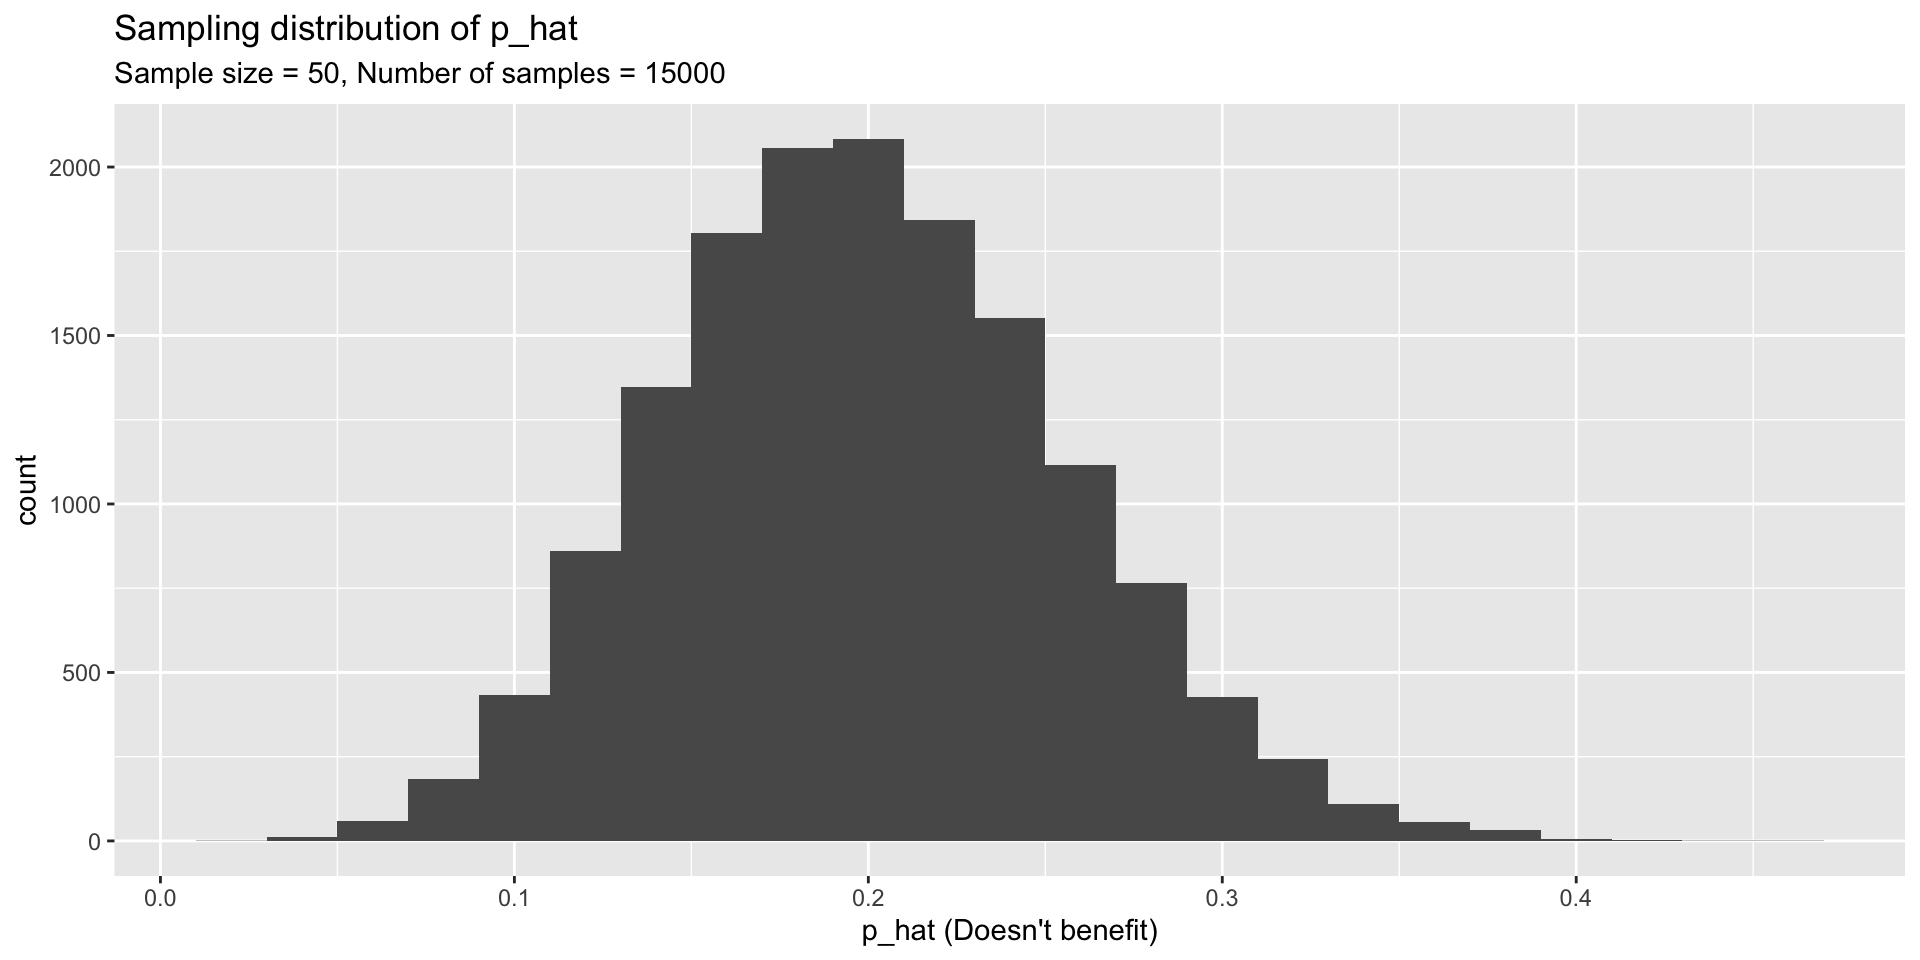
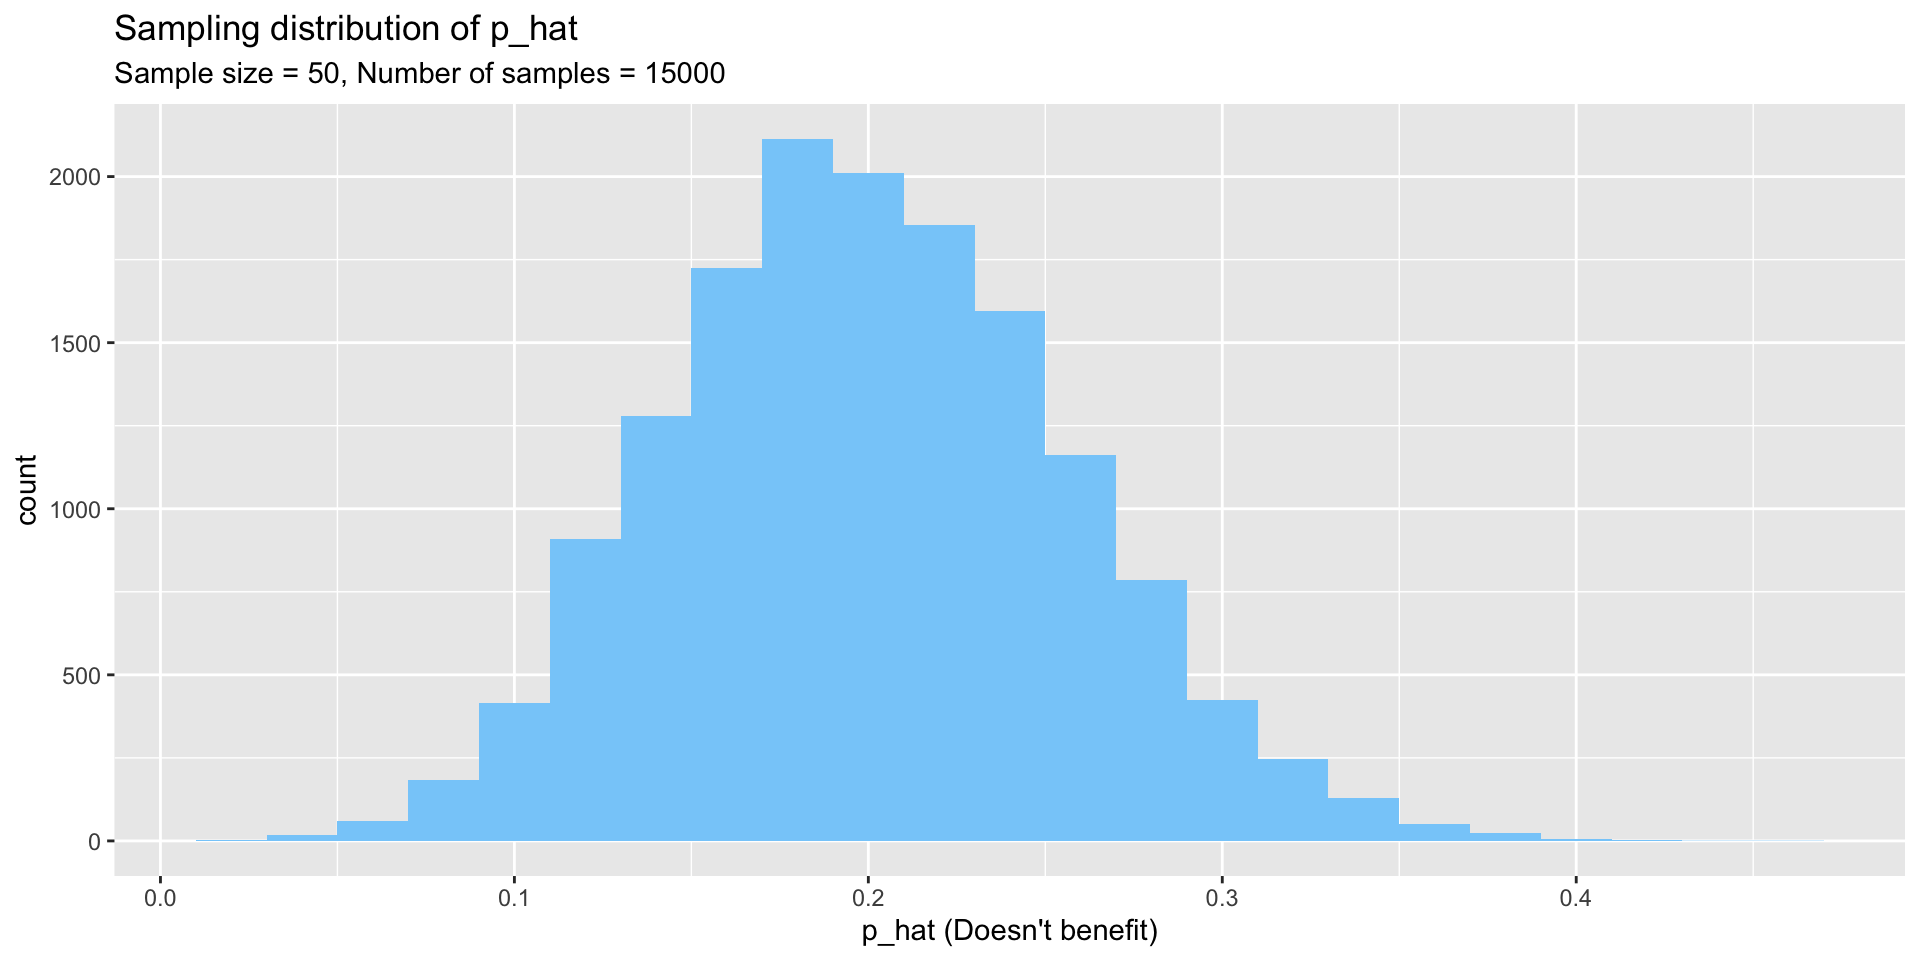
fixed errors in 06inference in i306

Changed region(s): [[0.0312, 0.125, 0.9688, 0.875], [0.0312, 0.6875, 0.0625, 0.7188], [0.0312, 0.3438, 0.0625, 0.375]]

diff --git a/stats/06inference/index.html b/stats/06inference/index.html
@@ -461,7 +461,7 @@ Mick McQuaid
 </section>
 <section id="point-estimates" class="slide level2 center">
 <h2>Point estimates</h2>
-<p>Example: Biden’t approval rating is 38% (Reuters, 2024-01-31). This is a point estimate.</p>
+<p>Example: Biden’s approval rating is 38% (Reuters, 2024-01-31). This is a point estimate.</p>
 <p>How good is this point estimate? Two factors are sampling error and bias.</p>
 <ul>
 <li>Who’s in the sample?</li>
@@ -491,10 +491,10 @@ Mick McQuaid
 <span id="cb3-8"><a href=""></a><span class="co"># the sample size.</span></span>
 <span id="cb3-9"><a href=""></a>(phat <span class="ot">&lt;-</span> <span class="fu">sum</span>(sampledEntries <span class="sc">==</span> <span class="st">"support"</span>) <span class="sc">/</span> <span class="dv">1000</span>)</span></code><button title="Copy to Clipboard" class="code-copy-button"><i class="bi"></i></button></pre></div>
 <div class="cell-output cell-output-stdout">
-<pre><code>[1] 0.876</code></pre>
+<pre><code>[1] 0.888</code></pre>
 </div>
 </div>
-<p>This estimate, 0.876, differs every time we sample. Let’s look at a different sample from the textbook’s lab website.</p>
+<p>This estimate, 0.888, differs every time we sample. Let’s look at a different sample from the textbook’s lab website.</p>
 </section>
 <section id="global-monitor" class="slide level2 center">
 <h2>Global Monitor</h2>
@@ -515,7 +515,7 @@ Mick McQuaid
 <div class="cell">
 <div class="sourceCode cell-code" id="cb6"><pre class="sourceCode numberSource r number-lines code-with-copy"><code class="sourceCode r"><span id="cb6-1"><a href=""></a>global_monitor <span class="sc">|&gt;</span></span>
 <span id="cb6-2"><a href=""></a><span class="fu">ggplot</span>(<span class="fu">aes</span>(scientist_work)) <span class="sc">+</span></span>
-<span id="cb6-3"><a href=""></a>  <span class="fu">geom_bar</span>() <span class="sc">+</span></span>
+<span id="cb6-3"><a href=""></a>  <span class="fu">geom_bar</span>(<span class="at">fill=</span><span class="st">"#87CEFA"</span>) <span class="sc">+</span></span>
 <span id="cb6-4"><a href=""></a>  <span class="fu">labs</span>(</span>
 <span id="cb6-5"><a href=""></a>    <span class="at">x =</span> <span class="st">""</span>, <span class="at">y =</span> <span class="st">""</span>,</span>
 <span id="cb6-6"><a href=""></a>    <span class="at">title =</span> <span class="st">"Do you believe that the work scientists do benefit people like you?"</span></span>
@@ -556,8 +556,8 @@ Mick McQuaid
 <pre><code># A tibble: 2 × 3
   scientist_work      n p_hat
   &lt;chr&gt;           &lt;int&gt; &lt;dbl&gt;
-1 Benefits           36  0.72
-2 Doesn't benefit    14  0.28</code></pre>
+1 Benefits           42  0.84
+2 Doesn't benefit     8  0.16</code></pre>
 </div>
 </div>
 </section>
@@ -576,7 +576,7 @@ Mick McQuaid
 <div class="cell">
 <div class="sourceCode cell-code" id="cb13"><pre class="sourceCode numberSource r number-lines code-with-copy"><code class="sourceCode r"><span id="cb13-1"><a href=""></a>sample_props50 <span class="sc">|&gt;</span></span>
 <span id="cb13-2"><a href=""></a><span class="fu">ggplot</span>(<span class="fu">aes</span>(p_hat)) <span class="sc">+</span></span>
-<span id="cb13-3"><a href=""></a>  <span class="fu">geom_histogram</span>(<span class="at">binwidth =</span> <span class="fl">0.02</span>) <span class="sc">+</span></span>
+<span id="cb13-3"><a href=""></a>  <span class="fu">geom_histogram</span>(<span class="at">binwidth =</span> <span class="fl">0.02</span>,<span class="at">fill=</span><span class="st">"#87CEFA"</span>) <span class="sc">+</span></span>
 <span id="cb13-4"><a href=""></a>  <span class="fu">labs</span>(</span>
 <span id="cb13-5"><a href=""></a>    <span class="at">x =</span> <span class="st">"p_hat (Doesn't benefit)"</span>,</span>
 <span id="cb13-6"><a href=""></a>    <span class="at">title =</span> <span class="st">"Sampling distribution of p_hat"</span>,</span>
@@ -659,11 +659,11 @@ Mick McQuaid
 <h2>Example of a 95 percent confidence interval</h2>
 <p>For the solar power example given in the textbook,</p>
 <p><span class="math display">\[\hat{p}\pm 1.96 \times SE_{\hat{p}} \rightarrow 0.887 \pm 1.96 \times 0.010 \rightarrow (0.8674,0.9066)\]</span></p>
-<p>which is expressed in words as <em>We are 95 percent confident that the actual proportion of American adults who support expanding solar power is between 86.7 percent and 90.7 percent</em>. It is also common to say instead that <em>88 percent of Americans support expanding solar power (with a margin of error of 1.96 percent)</em>.</p>
+<p>which is expressed in words as <em>We are 95 percent confident that the actual proportion of American adults who support expanding solar power is between 86.7 percent and 90.7 percent</em>. It is also common to say instead that <em>89 percent of Americans support expanding solar power (with a margin of error of 1.96 percent)</em>.</p>
 </section>
 <section id="other-confidence-intervals" class="slide level2 center">
 <h2>Other confidence intervals</h2>
-<p>We could substitute 2.58 for 1.96 to obtain a 99 percent confidence interval. For a 90 percent confidence interval, substitute 1.645.</p>
+<p>We could substitute 2.576 for 1.96 to obtain a 99 percent confidence interval. For a 90 percent confidence interval, substitute 1.645.</p>
 </section>
 <section id="plausibility-vs-possibility" class="slide level2 center">
 <h2>Plausibility vs possibility</h2>
@@ -680,7 +680,7 @@ Mick McQuaid
 </section>
 <section id="the-null-and-alternative-hypothesis" class="slide level2 center">
 <h2>The null and alternative hypothesis</h2>
-<p>The null hypothesis ordinarily represents the status quo or some skeptical belief about a new outcome, while the alternative hypothesis ordinarily represents an optimistic belief about the outcome under study, such as the effect of a new drug, where the null hypothesis would say that the drug has no effect and the alternative hypothesis is that it cures condition <span class="math inline">\(x\)</span>.</p>
+<p>The null hypothesis ordinarily represents the status quo or some skeptical belief about a new outcome, while the alternative hypothesis ordinarily represents an optimistic belief about the outcome under study, such as the effect of a new drug, where the null hypothesis would say that the drug has no effect and the alternative hypothesis is that it cures condition <span class="math inline">\(xyz\)</span>.</p>
 <p>Why would we phrase them this way? It is because we want to partition the risk of failure. To do that, we need the concepts of Type I and Type II error.</p>
 </section></section>
 <section>
@@ -863,7 +863,7 @@ Mick McQuaid
 </section>
 <section id="pictures-of-the-alpha-levels" class="slide level2 center">
 <h2>Pictures of the alpha levels</h2>
-<p>The following three pictures show these three cases. The first version, <em>life-or-death</em>, has the smallest rejection region. Suppose the test is whether a radical cancer treatment gives longer life than a traditional cancer treatment. Let’s say that the traditional treatment gives an average of 15 months longer life. The null hypothesis is that the new treatment also gives 15 months longer life. The alternative hypothesis is that the radical treatment gives 22 months more life on average based on on only five patients who received the new treatment. A patient can only do one treatment or the other. The status quo would be to take the traditional treatment unless there is strong evidence that the radical treatment provides an average longer life.</p>
+<p>The following pictures show these three cases. The first version, <em>life-or-death</em>, has the smallest rejection region. Suppose the test is whether a radical cancer treatment gives longer life than a traditional cancer treatment. Let’s say that the traditional treatment gives an average of 15 months longer life. The null hypothesis is that the new treatment also gives 15 months longer life. The alternative hypothesis is that the radical treatment gives 22 months more life on average based on on only five patients who received the new treatment. A patient can only do one treatment or the other. The status quo would be to take the traditional treatment unless there is strong evidence that the radical treatment provides an average longer life.</p>
 </section>
 <section id="minimizing-the-chance-of-mistake" class="slide level2 center">
 <h2>Minimizing the chance of mistake</h2>
@@ -915,7 +915,7 @@ t=\frac{\overline{y}-\mu_0}{s/\sqrt{n}}
 <section id="practice-estimating-a-population-mean" class="slide level2 center">
 <h2>practice estimating a population mean</h2>
 <p>Consider an outlet store that purchased used display panels to refurbish and resell. The relevant statistics for failure time of the sample are <span class="math inline">\(n=50, \overline{y}=1.9350, s=0.92865\)</span>.</p>
-<p>But these are the only necessary numbers to solve the problem. The standard error, .1313 can be calculated from <span class="math inline">\(s/\sqrt{n} = 0.92865/\sqrt{50}=.1313.\)</span></p>
+<p>But these are the only necessary numbers to solve the problem. The standard error, .1313, can be calculated from <span class="math inline">\(s/\sqrt{n} = 0.92865/\sqrt{50}=.1313.\)</span></p>
 </section>
 <section id="section-3" class="slide level2 center">
 <h2></h2>
@@ -950,7 +950,7 @@ t=\frac{\overline{y}-\mu_0}{s/\sqrt{n}}
 <p>Imprisoning an innocent person is like a Type I error: we rejected the null hypothesis when it was true. Letting a guilty person go free is like a Type II error: we failed to reject the null hypothesis when it was false.</p>
 </section>
 <section id="identify-rejection-region-marker" class="slide level2 center">
-<h2>identify rejection region marker</h2>
+<h2>Identify rejection region marker</h2>
 <p>How do you identify rejection region markers? A rejection region marker is the value of a test statistic that leads to rejection of the null hypothesis. It marks the edge of a region under the curve corresponding to the level of significance, <span class="math inline">\(\alpha\)</span>. The marker is not a measure of the size of the region. The rejection region marker can vary from <span class="math inline">\(-\infty\)</span> to <span class="math inline">\(+\infty\)</span> while the size of the region is somewhere between zero and one.</p>
 </section>
 <section id="section-7" class="slide level2 center">
@@ -1028,12 +1028,12 @@ t=\frac{\overline{y}-\mu_0}{s/\sqrt{n}}
 
 <img data-src="index_files/figure-revealjs/unnamed-chunk-11-1.png" width="960" class="r-stretch"></section>
 <section id="test-a-hypothesis-about-a-sample-mean" class="slide level2 center">
-<h2>test a hypothesis about a sample mean</h2>
+<h2>Test a hypothesis about a sample mean</h2>
 <p>The test statistic is <span class="math inline">\(t_c\)</span>, where the <span class="math inline">\(c\)</span> subscript stands for <em>calculated</em>. Most people just call it <span class="math inline">\(t\)</span>. In my mind, that leads to occasional confusion about whether it is a value calculated from a sample. We’ll compare the test statistic to <span class="math inline">\(t_{\alpha,\nu}\)</span>, the value of the statistic at a given level of significance, identified using a table or calculator.</p>
 </section>
 <section id="section-15" class="slide level2 center">
 <h2></h2>
-<p>The test leads to two situations. The first, pictured below, is the situation where we fail to reject the null hypothesis and conclude that we have not seen evidence in the sample that the point estimate differs from what the modest hypothesis claims it is. Often, this is an estimate of a mean, where the population mean, <span class="math inline">\(\mu_0\)</span>, is being estimated by a sample mean, <span class="math inline">\(\bar{y}\)</span>. The following picture doesn’t show <span class="math inline">\(\bar{y}\)</span>, just the tail. <span class="math inline">\(\bar{y}\)</span> would be at the top of the hump, not shown here.</p>
+<p>The test leads to two situations. The first, pictured next, is the situation where we fail to reject the null hypothesis and conclude that we have not seen evidence in the sample that the point estimate differs from what the modest hypothesis claims it is. Often, this is an estimate of a mean, where the population mean, <span class="math inline">\(\mu_0\)</span>, is being estimated by a sample mean, <span class="math inline">\(\bar{y}\)</span>. The following picture doesn’t show <span class="math inline">\(\bar{y}\)</span>, just the tail. <span class="math inline">\(\bar{y}\)</span> would be at the top of the hump, not shown here.</p>
 </section>
 <section id="section-16" class="slide level2 center">
 <h2></h2>
@@ -1041,7 +1041,7 @@ t=\frac{\overline{y}-\mu_0}{s/\sqrt{n}}
 <img data-src="index_files/figure-revealjs/unnamed-chunk-12-1.png" width="960" class="r-stretch"></section>
 <section id="section-17" class="slide level2 center">
 <h2></h2>
-<p>The above possibility shows the situation where <span class="math inline">\(t_{\alpha,\nu}&gt;t_c\)</span>, which is equivalent to saying that <span class="math inline">\(p&gt;\alpha\)</span>.</p>
+<p>The preceding possibility shows the situation where <span class="math inline">\(t_{\alpha,\nu}&gt;t_c\)</span>, which is equivalent to saying that <span class="math inline">\(p&gt;\alpha\)</span>.</p>
 <p>The <span class="math inline">\(x\)</span>-axis scale begins to the left of the fragment shown here, and values of <span class="math inline">\(t\)</span> increase from left to right. At the same time, the shaded regions decrease in size from left to right. Note that the entire shaded region above is <span class="math inline">\(p\)</span>, while only the darker region at the right is <span class="math inline">\(\alpha\)</span>.</p>
 <p>The situation pictured next is the reverse. In this situation, we reject the null hypothesis and conclude instead that the point estimate does not equal the value in the modest hypothesis. In this case <span class="math inline">\(t_{\alpha,\nu}&lt;t_c\)</span>, which is equivalent to saying that <span class="math inline">\(p&lt;\alpha\)</span>.</p>
 </section>
@@ -1084,12 +1084,12 @@ t=\frac{\overline{y}-\mu_0}{s/\sqrt{n}}
 <section id="section-23" class="slide level2 center">
 <h2></h2>
 <p>At the end of step 2, we have determined the alternative hypothesis to be</p>
-<p><span class="math inline">\(H_a: \mu&gt;\mu_0\)</span> with <span class="math inline">\(\mu_0=15\)</span>.</p>
+<p><span class="math inline">\(H_A: \mu&gt;\mu_0\)</span> with <span class="math inline">\(\mu_0=15\)</span>.</p>
 </section>
 <section id="step-3.-choose-the-test-statistic." class="slide level2 center">
 <h2>Step 3. Choose the test statistic.</h2>
 <p>Previously, we have learned two test statistics, <span class="math inline">\(z\)</span> and <span class="math inline">\(t\)</span>. We have learned that the choice between them is predicated on sample size. If <span class="math inline">\(n\geqslant30\)</span>, use <span class="math inline">\(z\)</span>, otherwise use <span class="math inline">\(t\)</span>. Here <span class="math inline">\(n=5\)</span> so use <span class="math inline">\(t\)</span>. We can calculate the <span class="math inline">\(t\)</span>-statistic, which I called <span class="math inline">\(t_c\)</span> for <em>calculated</em> above, for the sample using the formula <span class="math display">\[
-t=\frac{\overline{y}-\mu_0}{s/\sqrt{n}}
+t_c=\frac{\overline{y}-\mu_0}{s/\sqrt{n}}
 \]</span></p>
 </section>
 <section id="section-24" class="slide level2 center">
@@ -1137,23 +1137,29 @@ n(\overline{y})^2}{n-1}}=2\]</span></p>
 <section id="section-29" class="slide level2 center">
 <h2></h2>
 <p>In this case <span class="math inline">\(p=P(t_{\alpha,\nu}&gt;t_c)=0.0007195\)</span>.</p>
+<div class="cell">
+<div class="sourceCode cell-code" id="cb16"><pre class="sourceCode numberSource r number-lines code-with-copy"><code class="sourceCode r"><span id="cb16-1"><a href=""></a><span class="fu">pt</span>(<span class="fl">7.8262</span>,<span class="dv">4</span>,<span class="at">lower.tail=</span><span class="cn">FALSE</span>)</span></code><button title="Copy to Clipboard" class="code-copy-button"><i class="bi"></i></button></pre></div>
+<div class="cell-output cell-output-stdout">
+<pre><code>[1] 0.000719558</code></pre>
+</div>
+</div>
 <p>We can identify both <span class="math inline">\(t_\alpha\)</span> and <span class="math inline">\(t_c\)</span> using R as follows.</p>
 </section>
 <section id="section-30" class="slide level2 center">
 <h2></h2>
 <div class="cell">
-<div class="sourceCode cell-code" id="cb16"><pre class="sourceCode numberSource r number-lines code-with-copy"><code class="sourceCode r"><span id="cb16-1"><a href=""></a><span class="co">#. t sub alpha</span></span>
-<span id="cb16-2"><a href=""></a><span class="fu">qt</span>(<span class="fl">0.95</span>,<span class="dv">4</span>)</span></code><button title="Copy to Clipboard" class="code-copy-button"><i class="bi"></i></button></pre></div>
+<div class="sourceCode cell-code" id="cb18"><pre class="sourceCode numberSource r number-lines code-with-copy"><code class="sourceCode r"><span id="cb18-1"><a href=""></a><span class="co">#. t sub alpha</span></span>
+<span id="cb18-2"><a href=""></a><span class="fu">qt</span>(<span class="fl">0.95</span>,<span class="dv">4</span>)</span></code><button title="Copy to Clipboard" class="code-copy-button"><i class="bi"></i></button></pre></div>
 <div class="cell-output cell-output-stdout">
 <pre><code>[1] 2.131847</code></pre>
 </div>
-<div class="sourceCode cell-code" id="cb18"><pre class="sourceCode numberSource r number-lines code-with-copy"><code class="sourceCode r"><span id="cb18-1"><a href=""></a><span class="co">#. find the alpha region associated with t sub alpha</span></span>
-<span id="cb18-2"><a href=""></a><span class="dv">1</span><span class="sc">-</span><span class="fu">pt</span>(<span class="fl">2.131847</span>,<span class="dv">4</span>)</span></code><button title="Copy to Clipboard" class="code-copy-button"><i class="bi"></i></button></pre></div>
+<div class="sourceCode cell-code" id="cb20"><pre class="sourceCode numberSource r number-lines code-with-copy"><code class="sourceCode r"><span id="cb20-1"><a href=""></a><span class="co">#. find the alpha region associated with t sub alpha</span></span>
+<span id="cb20-2"><a href=""></a><span class="dv">1</span><span class="sc">-</span><span class="fu">pt</span>(<span class="fl">2.131847</span>,<span class="dv">4</span>)</span></code><button title="Copy to Clipboard" class="code-copy-button"><i class="bi"></i></button></pre></div>
 <div class="cell-output cell-output-stdout">
 <pre><code>[1] 0.04999999</code></pre>
 </div>
-<div class="sourceCode cell-code" id="cb20"><pre class="sourceCode numberSource r number-lines code-with-copy"><code class="sourceCode r"><span id="cb20-1"><a href=""></a>x <span class="ot">&lt;-</span> <span class="fu">c</span>(<span class="dv">25</span>,<span class="dv">23</span>,<span class="dv">21</span>,<span class="dv">21</span>,<span class="dv">20</span>)</span>
-<span id="cb20-2"><a href=""></a><span class="fu">t.test</span>(x,<span class="at">alternative=</span><span class="st">"greater"</span>,<span class="at">mu=</span><span class="dv">15</span>)</span></code><button title="Copy to Clipboard" class="code-copy-button"><i class="bi"></i></button></pre></div>
+<div class="sourceCode cell-code" id="cb22"><pre class="sourceCode numberSource r number-lines code-with-copy"><code class="sourceCode r"><span id="cb22-1"><a href=""></a>x <span class="ot">&lt;-</span> <span class="fu">c</span>(<span class="dv">25</span>,<span class="dv">23</span>,<span class="dv">21</span>,<span class="dv">21</span>,<span class="dv">20</span>)</span>
+<span id="cb22-2"><a href=""></a><span class="fu">t.test</span>(x,<span class="at">alternative=</span><span class="st">"greater"</span>,<span class="at">mu=</span><span class="dv">15</span>)</span></code><button title="Copy to Clipboard" class="code-copy-button"><i class="bi"></i></button></pre></div>
 <div class="cell-output cell-output-stdout">
 <pre><code>
     One Sample t-test
@@ -1183,7 +1189,7 @@ mean of x
 <p>To summarize the answer, the seven elements of this statistical test of hypothesis are:</p>
 <ol type="1">
 <li><strong>null hypothesis</strong> <span class="math inline">\(H_0: \mu=15\)</span></li>
-<li><strong>alternative hypothesis</strong> <span class="math inline">\(H_{a}: \mu&gt;15\)</span></li>
+<li><strong>alternative hypothesis</strong> <span class="math inline">\(H_{A}: \mu&gt;15\)</span></li>
 <li><strong>test statistic</strong> <span class="math inline">\(t_c=7.8262\)</span></li>
 <li><strong>level of significance</strong> <span class="math inline">\(\alpha=0.05\)</span></li>
 <li><strong>rejection region marker</strong> <span class="math inline">\(t_{0.05,4} = 2.131847\)</span></li>
